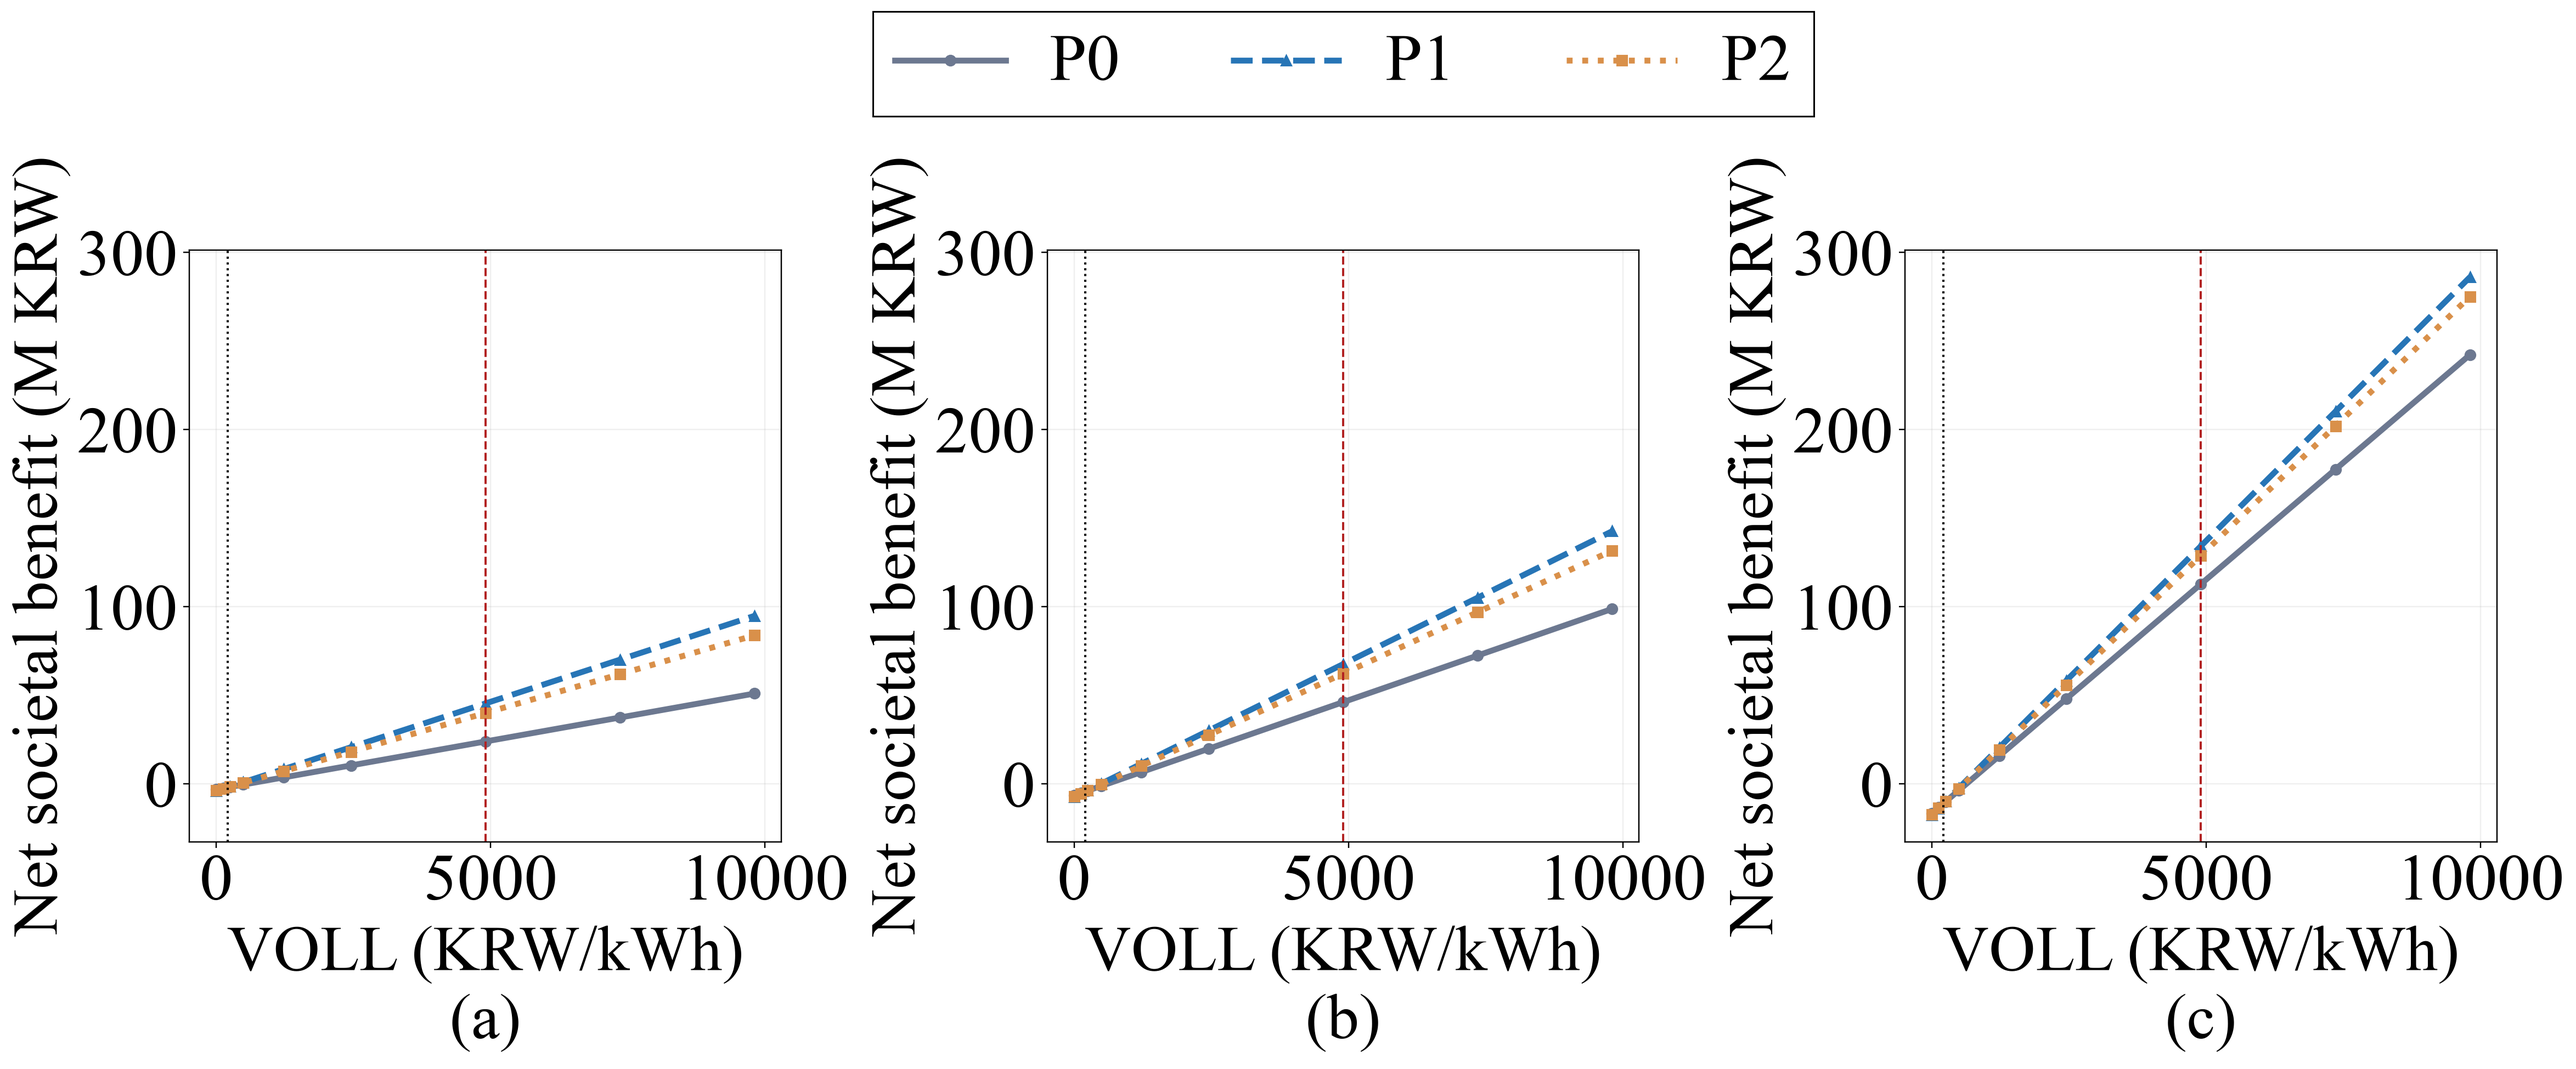
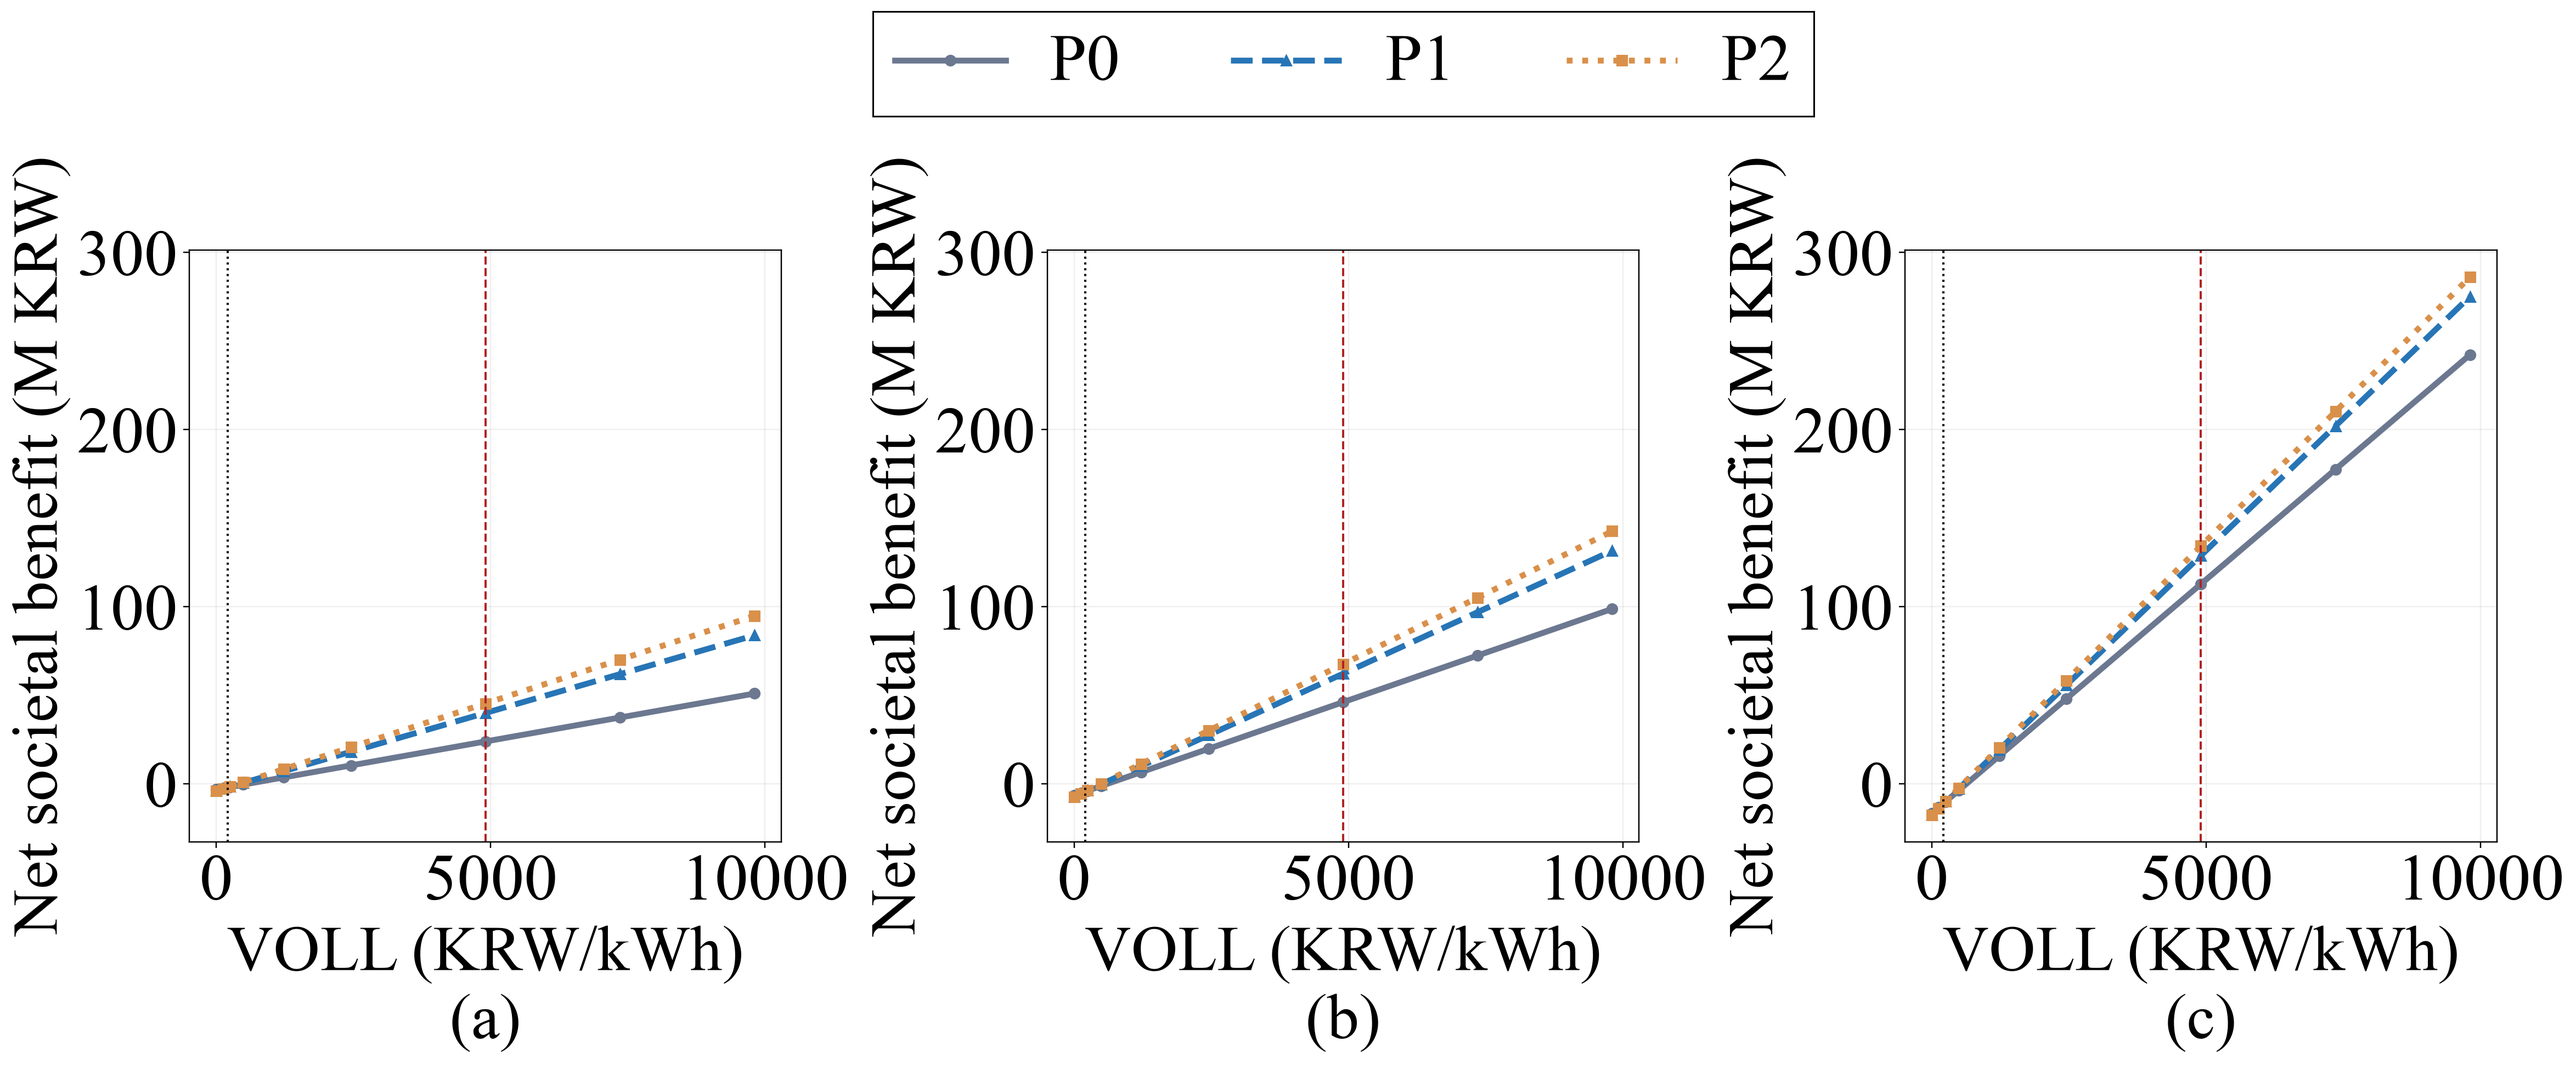
Swap paper P1 and P2 labels in Figure 11

diff --git a/p1_additional_analysis.py b/p1_additional_analysis.py
@@ -113,13 +113,15 @@ def main() -> None:
     )
     for axis, trucks, letter in zip(axes, (1, 2, 5), "abc", strict=True):
         p0 = runs[1.3, trucks, Strategy.P0]
-        p1 = runs[1.3, trucks, Strategy.P1]
+        proposed = runs[1.3, trucks, Strategy.P1]
         op0 = sum(step.operating_net_krw for step in p0.steps)
-        op1 = sum(step.operating_net_krw for step in p1.steps)
+        op_proposed = sum(step.operating_net_krw for step in proposed.steps)
         extra_supply = (
-            p1.total("hfc_kwh") + p1.total("ess_emergency_kwh") - p0.total("hfc_kwh")
+            proposed.total("hfc_kwh")
+            + proposed.total("ess_emergency_kwh")
+            - p0.total("hfc_kwh")
         )
-        break_even = (op0 - op1) / extra_supply
+        break_even = (op0 - op_proposed) / extra_supply
         break_even_rows.append(
             {
                 "alpha": 1.3,
@@ -127,22 +129,23 @@ def main() -> None:
                 "break_even_voll_krw_per_kwh": break_even,
             }
         )
-        for strategy, color, marker, linestyle in (
-            (Strategy.P0, "#6C7890", "o", "-"),
-            (Strategy.P1, "#2775B6", "^", "--"),
-            (Strategy.P2, "#D9904A", "s", ":"),
+        # Manuscript P1 is the former P2; proposed P2 is the former P1.
+        for label, strategy, color, marker, linestyle in (
+            ("P0", Strategy.P0, "#6C7890", "o", "-"),
+            ("P1", Strategy.P2, "#2775B6", "^", "--"),
+            ("P2", Strategy.P1, "#D9904A", "s", ":"),
         ):
             run = runs[1.3, trucks, strategy]
             x = np.array(MULTIPLIERS) * VOLL_KRW_PER_KWH
             y = np.array([societal(run, voll) / 1e6 for voll in x])
             axis.plot(x, y, color=color, marker=marker, linestyle=linestyle,
-                      linewidth=3.5, label=strategy.value)
+                      linewidth=3.5, label=label)
             for multiple, voll, value in zip(MULTIPLIERS, x, y, strict=True):
                 sensitivity.append(
                     {
                         "alpha": 1.3,
                         "available_trucks": trucks,
-                        "strategy": strategy.value,
+                        "strategy": label,
                         "voll_multiplier": multiple,
                         "voll_krw_per_kwh": voll,
                         "net_societal_million_krw": value,
